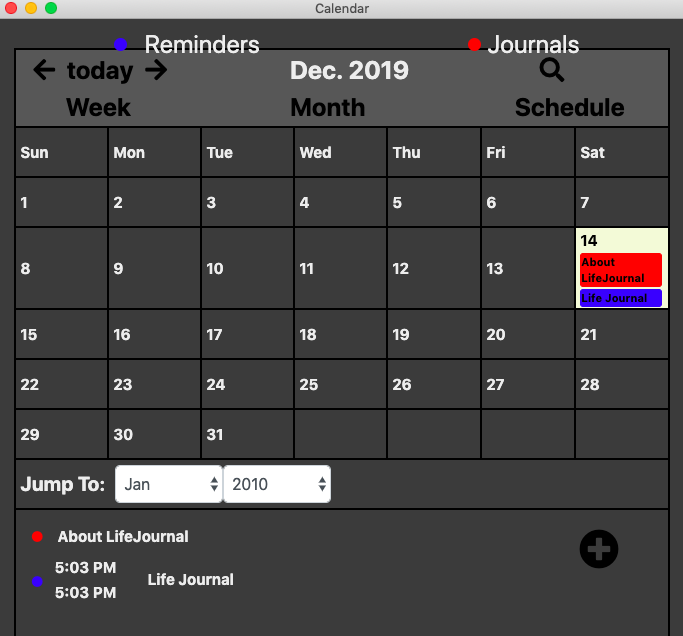
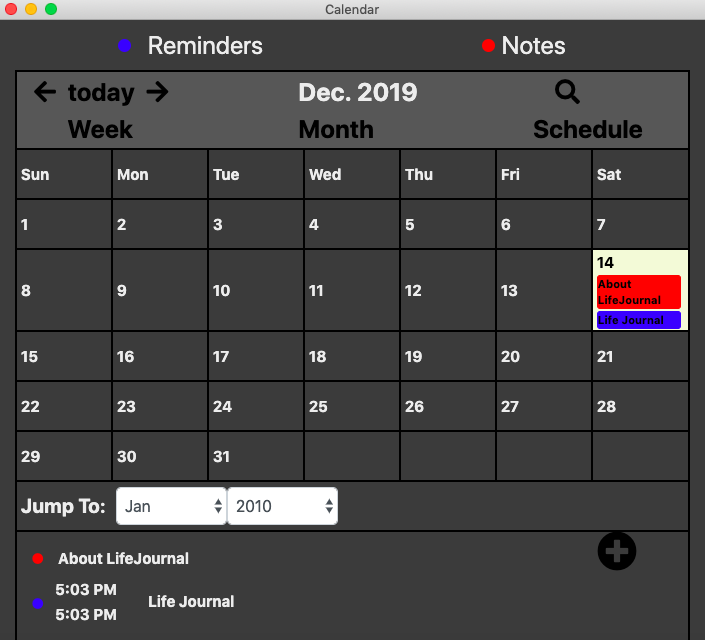
fix

Changed region(s): [[0.0, 0.0299, 0.9839, 1.0], [0.4612, 0.0, 0.5534, 0.0299], [0.0, 0.0, 0.0922, 0.0299]]

diff --git a/main.js b/main.js
@@ -127,7 +127,6 @@ mainThread.on("MUSIC_REGISTER",(event)=>{
 
 mainThread.on("TEXTBOX_REGISTER",(event,index)=>{
     eventList["TEXTBOX"][index] = event;
-    console.log(eventList["TEXTBOX"]);
 })
 
 // set globalVal 
@@ -356,7 +355,7 @@ mainThread.on("closeCreateAlbum",function(event,dir){
 mainThread.on("openCalendar", function(event){
     if(calendarWindow != null) 
     {
-        if(calendarWindown.isMinimized() == true) calendarWindow.restore();
+        if(calendarWindow.isMinimized() == true) calendarWindow.restore();
         calendarWindow.focus();
         return;
     } 
@@ -373,7 +372,6 @@ mainThread.on("openCalendar", function(event){
     calendarWindow.loadFile("./src/html/calendar.html");
 
     calendarWindow.on('resize',function(){
-        console.log(calendarWindow.getSize()[0]);
         eventList["CALENDAR"].sender.send("resizeCalendar",calendarWindow.getSize()[0]);
     })
 })
@@ -431,7 +429,7 @@ mainThread.on("openConfirmation",function(event,data){
         return;
     } 
     confirmation = data;
-    console.log(confirmation.type);
+    
     eventList["TASK_CONFIRM"] = event;
     
     taskConfirm = new BrowserWindow( 
@@ -783,8 +781,8 @@ mainThread.on("upload", function(event,data, specifier = ""){
 
         /* grab the biggest number */
         else size =  1 + parseInt(files[files.length - 1]);
-        console.log(files);
-        console.log("size" + size);
+        //console.log(files);
+        //console.log("size" + size);
         for(var i = 0; i < filenames.length; i++)
         {
             var path = filenames[i];

diff --git a/src/html/registration.html b/src/html/registration.html
@@ -193,7 +193,7 @@
                 	content += "     About LifeJournal";
 
                 	content += "TITLE_ENTRY_DATE_PHOTO:"
-                	content += "1. Album module: organize your photos.\n2. Music module: play your local music.\n3. Setting module: change your password and theme modes.\n4. Text entry module: write down your journal.\n5. Encryption: I protect your information.\n\ncoming Soon:\n1. Data backup module.\n2. Some of the features are not implemented in the calendar (view the calendar in a week and search your events.)\n\nContact: Please contact this email at a191618755@gmail.com if you have any questions or experience any bugs about the app.";
+                	content += "1. Album module: organize your photos.\n2. Music module: play your local music.\n3. Setting module: change your password and theme modes.\n4. Text entry module: write down your note.\n\n\nComing soon:\n1. Data backup module.\n2. Some of the features are not implemented in the calendar (view the calendar in a week and search your events.)\n\nContact: Please contact this email at a191618755@gmail.com if you have any questions or experience any bugs about the app.";
 
                 	content += "TITLE_ENTRY_DATE_PHOTO:"
                 	content += "2019-12-14";

diff --git a/src/html/calendar.html b/src/html/calendar.html
@@ -227,7 +227,7 @@
 <body>
     
     <span class="dot" style="position: fixed; left: 17%; top: 3%; background-color: blue; z-index: 2"><span style="position: relative; left: 30px; font-size: 25px;bottom:13px; z-index: 2">Reminders</span></span>
-    <span class="dot" style="position: fixed; right: 30%;top: 3%; background-color: red;z-index: 2"><span style="position: relative; left: 20px; font-size: 25px;bottom:13px;z-index: 2">Diaries</span></span>
+    <span class="dot" style="position: fixed; right: 30%;top: 3%; background-color: red;z-index: 2"><span style="position: relative; left: 20px; font-size: 25px;bottom:13px;z-index: 2">Notes</span></span>
 
     <a href = "#" id = "reminder" style="top: 80%; position: fixed; right: 10%;font-size: 40px;z-index: 2"><i class="fas fa-plus-circle"></i></a>
 
